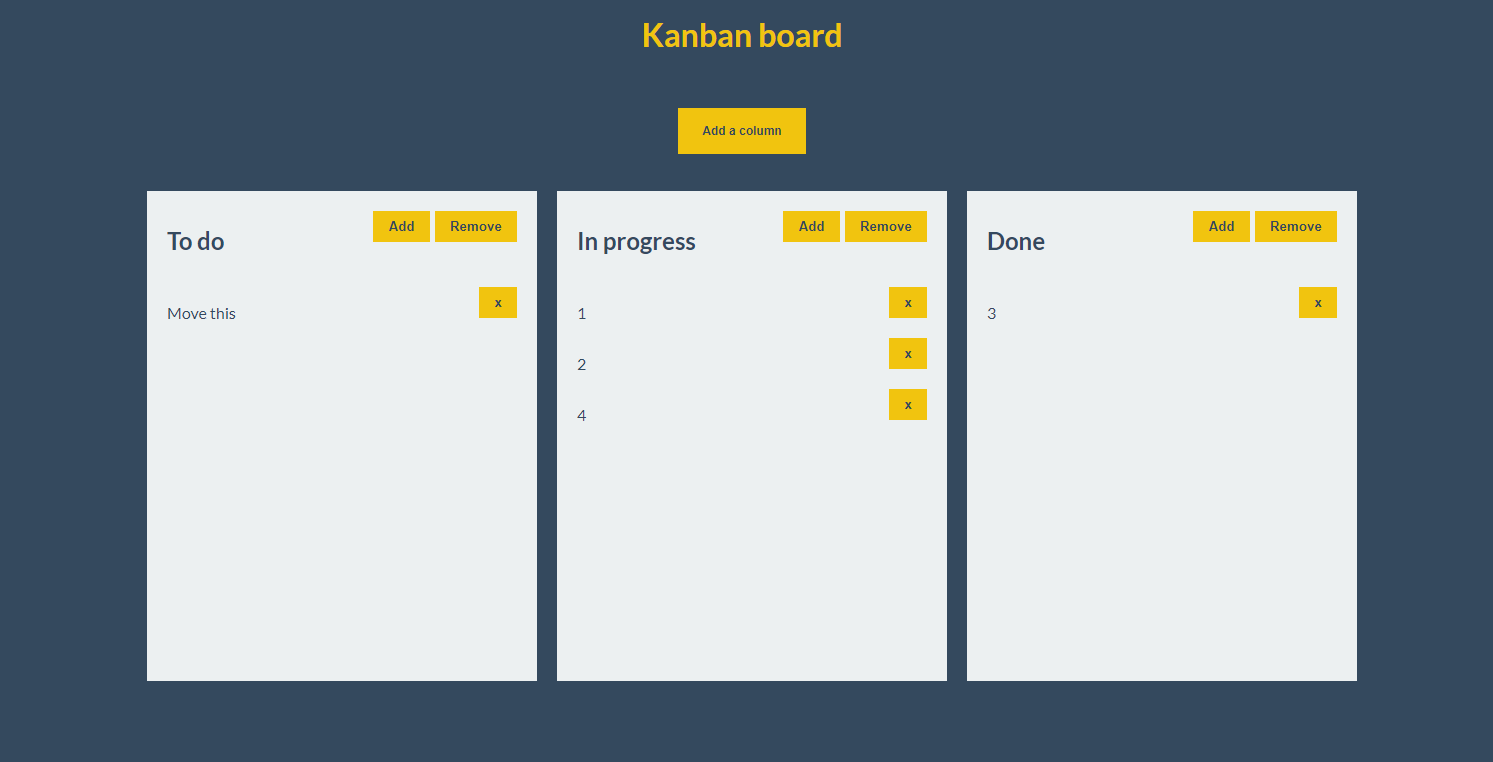
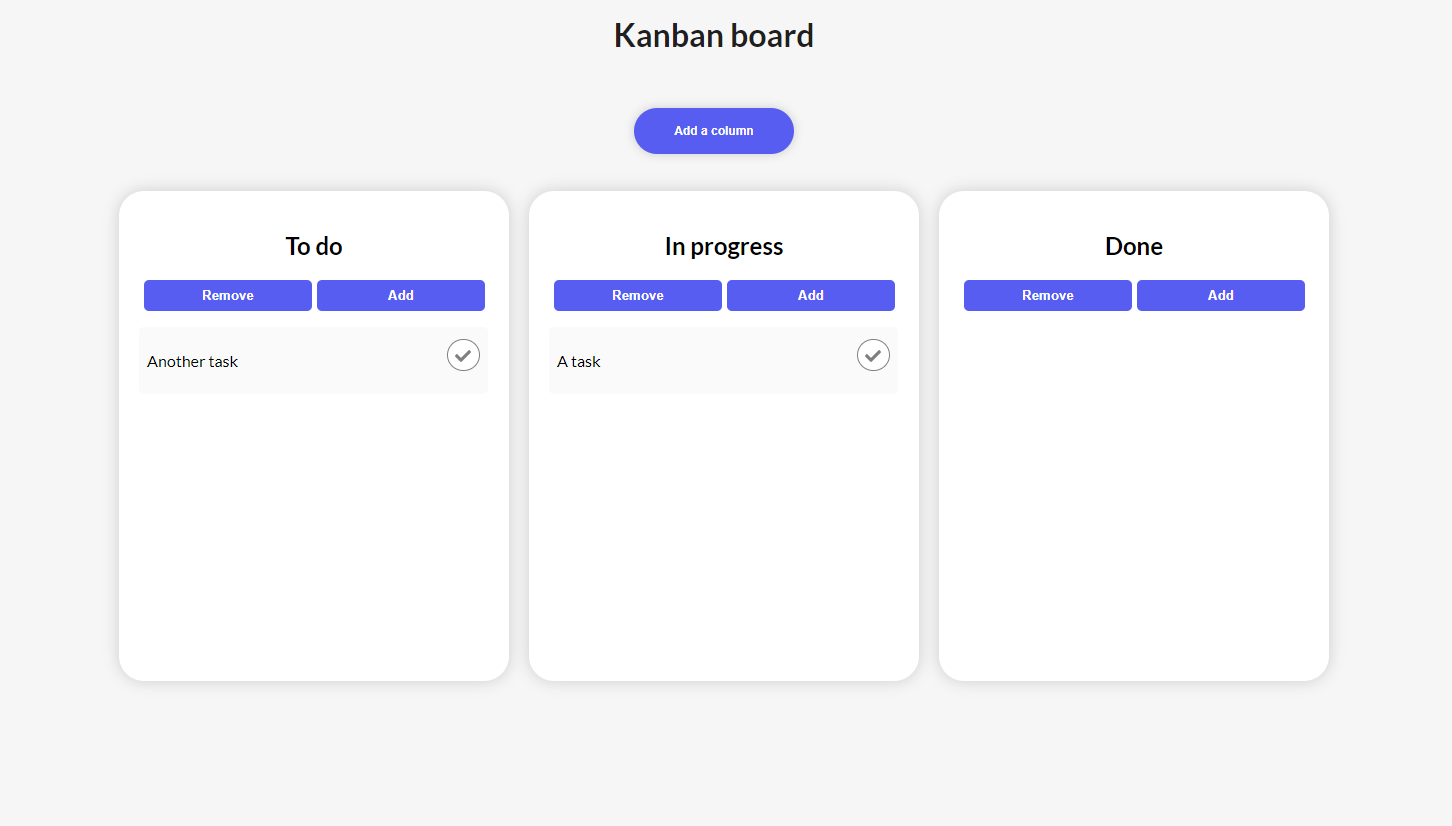
Added a link

diff --git a/index.html b/index.html
@@ -393,13 +393,13 @@
             <div class="layer">
               <span>
                 <h4>Mache</h4>
-                <p>Built with Bootstrap, from PSD to HTML.</p>
-                <a href="#" target="_blank">
+                <p>Built with Bootstrap 3, from PSD to HTML.</p>
+                <a href="https://daria-marczak.github.io/mache/" target="_blank">
                   <button type="button" class="view">
                     <i class="fas fa-eye"></i>
                   </button>
                 </a>
-                <a href="#" target="_blank">
+                <a href="https://github.com/daria-marczak/mache" target="_blank">
                   <button type="button" class="view">
                     <i class="fas fa-code"></i>
                   </button>
@@ -484,7 +484,7 @@
                 </a>
               </span>
             </div>
-            <img src="https://i.imgur.com/ka1MDuO.png" alt="kanban">
+            <img src="https://i.imgur.com/hbbcZPg.png" alt="kanban">
           </div>
           <div class="image">
             <div class="layer">

diff --git a/style.scss b/style.scss
@@ -63,8 +63,8 @@ p {
 }
 
 button {
-  padding: 0.95em 0.89em;
-  border-radius: 5px;
+  padding: 0.95em 1.5rem;
+  border-radius: 25px;
   text-transform: uppercase;
   font-weight: bold;
   background: linear-gradient(0deg, $color-secondary-1-0, $color-primary-0);

diff --git a/style.css b/style.css
@@ -37,8 +37,8 @@ p {
   color: black; }
 
 button {
-  padding: 0.95em 0.89em;
-  border-radius: 5px;
+  padding: 0.95em 1.5rem;
+  border-radius: 25px;
   text-transform: uppercase;
   font-weight: bold;
   background: linear-gradient(0deg, #912A62, #5C2777);
